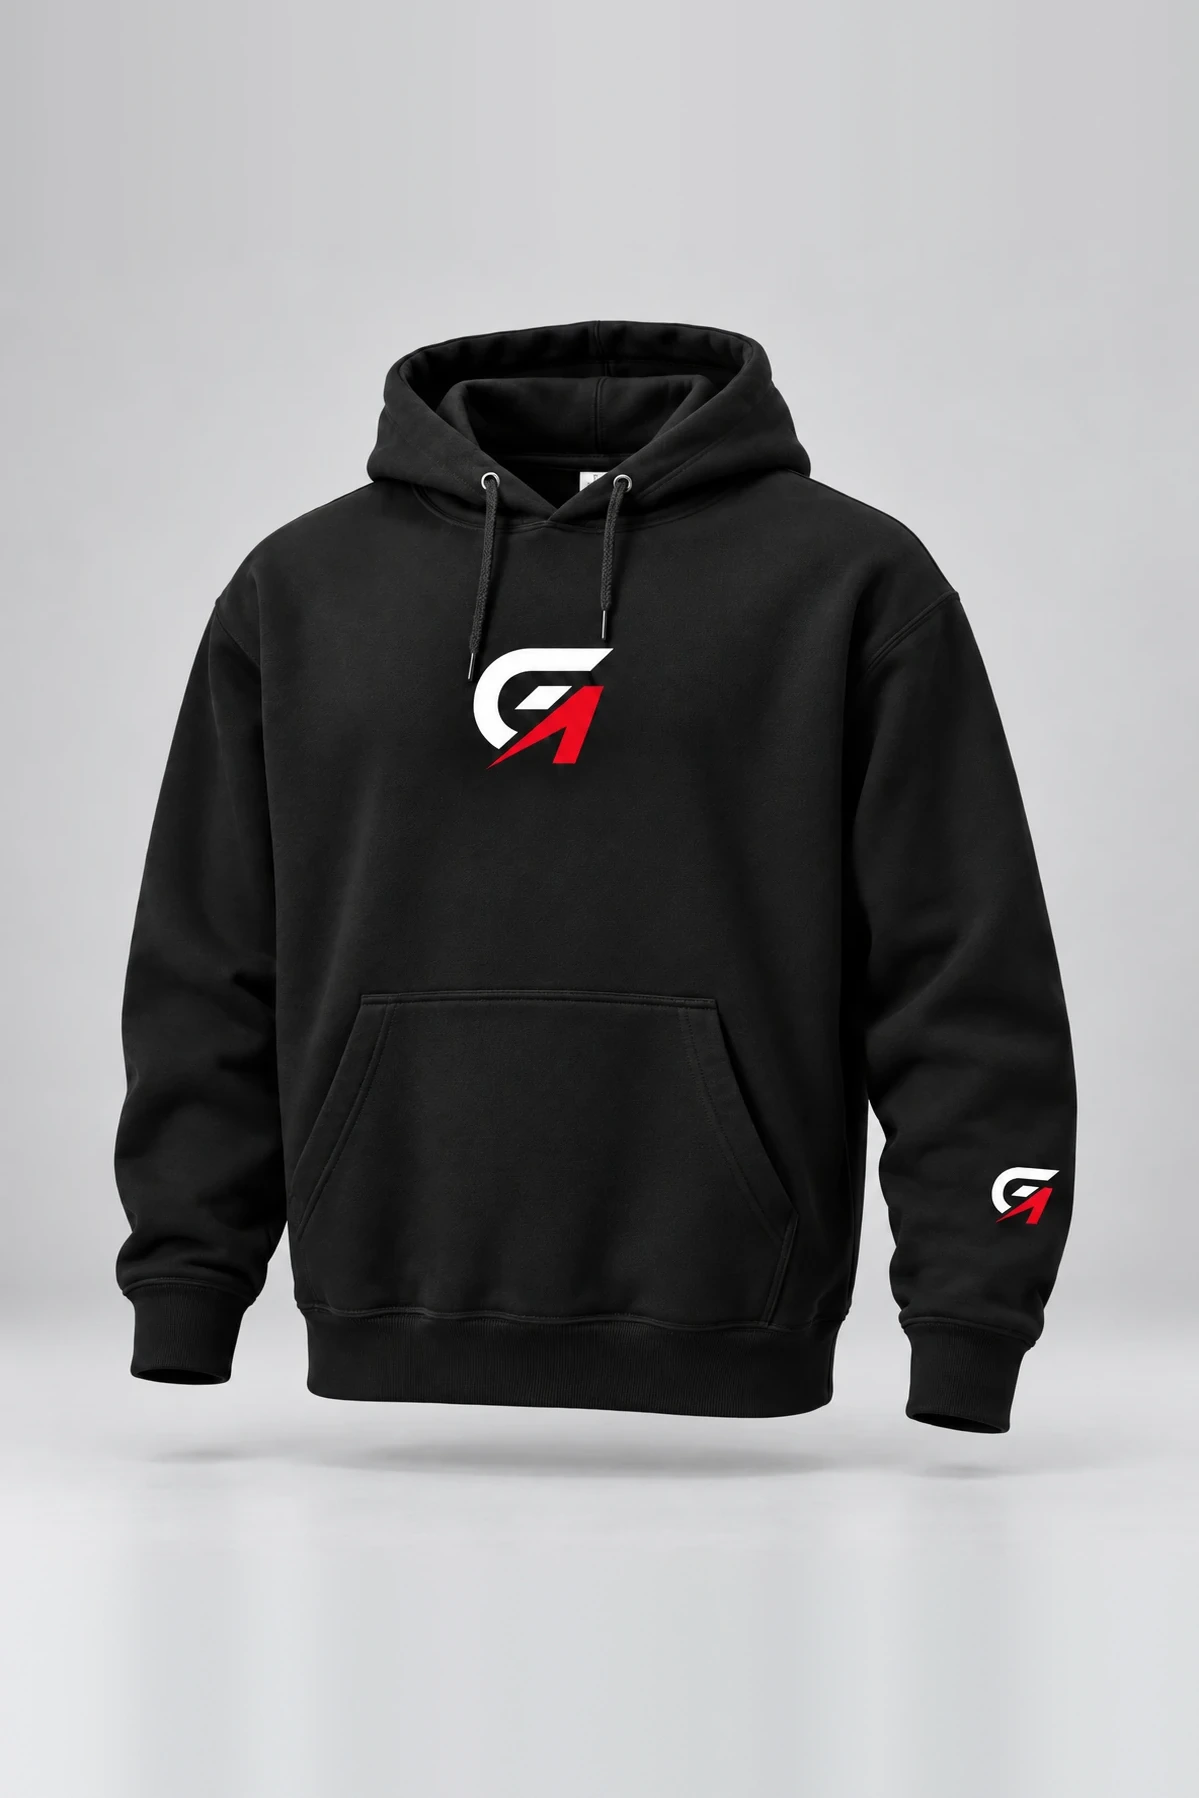
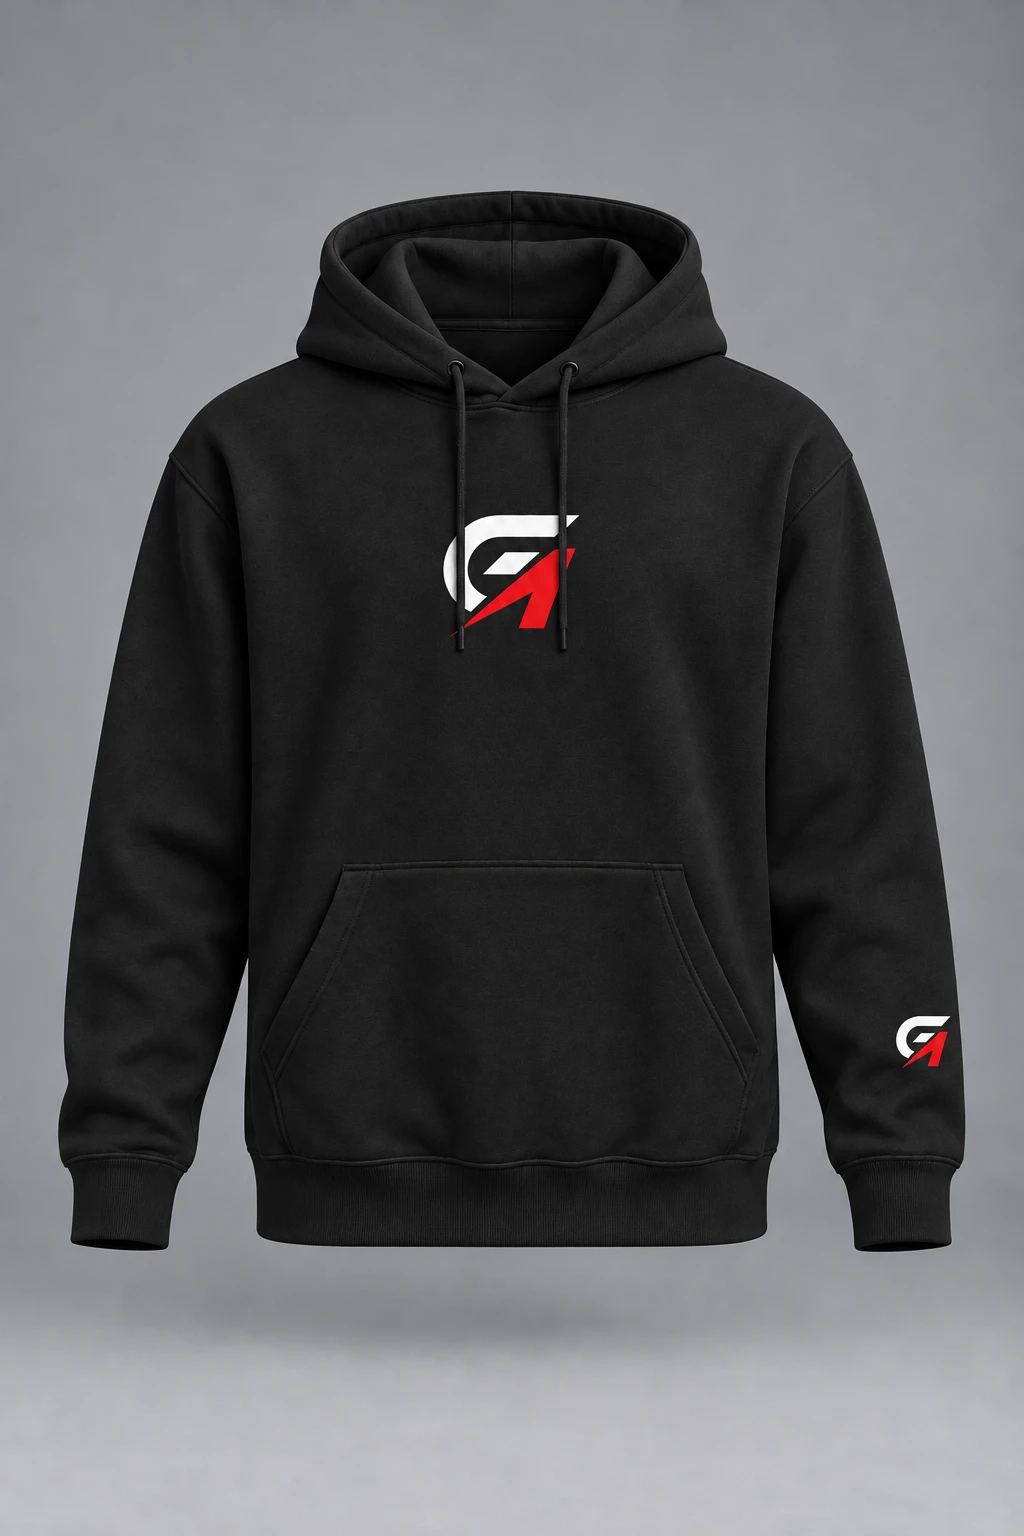
New black Heritage Hoodie product front
Owner decision 2026-10-26: the Black Heritage Hoodie product front is
replaced at its existing path with the owner's new shot (1024 x 1536,
2:3, used as given). Cache revision black-front-photo-v2-20261026 in
product-image.ts; original in
designs/58_heritage-hoodie-ind4000-2026-10-22/as-received-owner/.

diff --git a/src/lib/product-image.ts b/src/lib/product-image.ts
@@ -23,7 +23,8 @@ export function catalogImageSrc(src: string): string {
     // Heritage Hoodie Grey Heather: the owner's product shot replaced the
     // Apliiq render at this path the day both went live.
     "/products/goal-heritage-hoodie-grey-heather-catalog-product-front-20261022.webp": "grey-heather-front-photo-20261022",
-    "/products/goal-heritage-hoodie-black-catalog-product-front-20261022.webp": "black-front-photo-20261022",
+    // Black front replaced again by the owner's v2 shot on 2026-10-26.
+    "/products/goal-heritage-hoodie-black-catalog-product-front-20261022.webp": "black-front-photo-v2-20261026",
     "/products/goal-heritage-hoodie-navy-catalog-product-front-20261022.webp": "navy-front-photo-20261022",
     "/products/goal-heritage-hoodie-bone-catalog-product-front-20261022.webp": "bone-front-photo-v2-20261022",
     // Lockup Hoodie: the owner's product shots replaced the Apliiq renders.

diff --git a/designs/58_heritage-hoodie-ind4000-2026-10-22/README.md b/designs/58_heritage-hoodie-ind4000-2026-10-22/README.md
@@ -180,3 +180,7 @@ The owner supplied a product shot and three model photos for Grey Heather
    Supabase SQL editor.
 5. `node scripts/test-goal-hoodies.cjs` must still pass (it flips to
    expecting a 200 from checkout once every input is in).
+
+## Black front v2 (2026-10-26)
+
+The owner replaced the Black product front with a new shot (`as-received-owner/black-product-front-v2-as-received-20261026.webp`, 1024 x 1536, 2:3, grey studio backdrop, used as given). Same path in `public/products/`; cache revision `black-front-photo-v2-20261026` in `src/lib/product-image.ts`.
